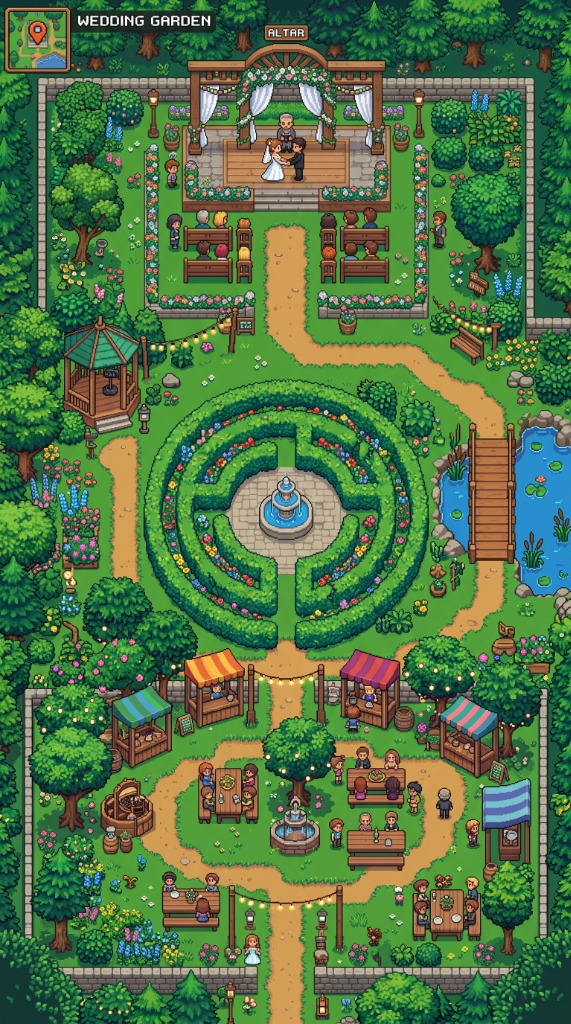
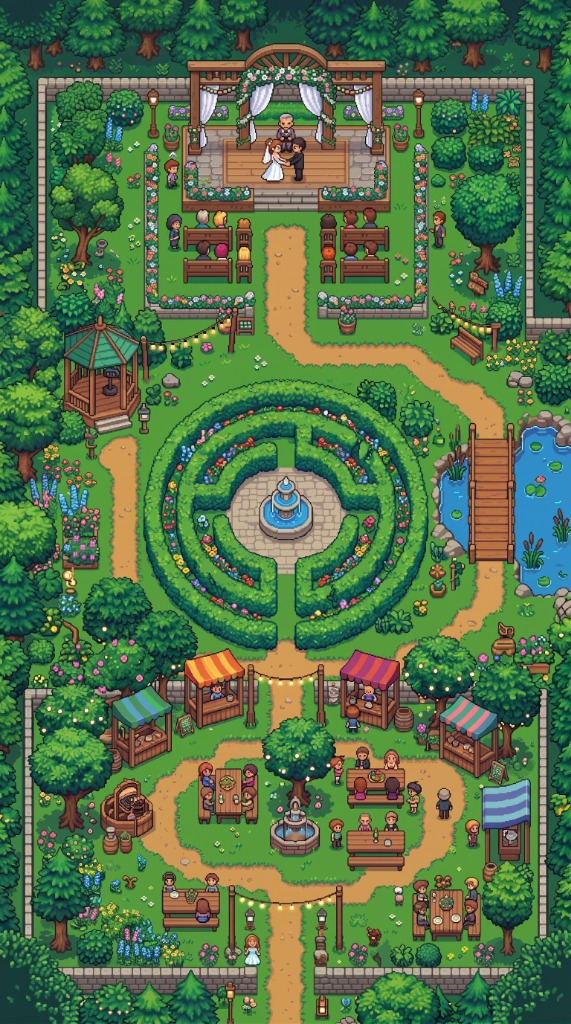
Restore NPC logic and update static background

diff --git a/index.html b/index.html
@@ -28,6 +28,20 @@
 
     <div id="errorDisplay" style="position: absolute; top: 0; left: 0; background: red; color: white; z-index: 9999; padding: 10px; font-family: monospace; font-size: 14px; display: none;"></div>
     <textarea id="editorOutput" style="position: absolute; top: 10px; right: 10px; width: 300px; height: 400px; z-index: 9999; display: none; font-family: monospace;" readonly></textarea>
+    
+    <!-- NPC Editor UI -->
+    <div id="npcEditorDiv" style="position: absolute; left: 10px; top: 10px; width: 220px; height: 80vh; background-color: rgba(0,0,0,0.8); color: white; overflow: hidden; display: flex; flex-direction: column; z-index: 9999; display: none; border-radius: 8px; border: 1px solid #c4a165;">
+        <div id="npcEditorHandle" style="padding: 10px; background-color: #c4a165; color: white; font-weight: bold; cursor: move; text-align: center; font-family: sans-serif;">
+            DRAG ME
+        </div>
+        <div style="padding: 10px; overflow-y: auto; flex-grow: 1;">
+            <h3 style="margin-top: 0;">NPC List</h3>
+            <p style="font-size: 11px; margin-bottom: 10px; line-height: 1.3;">Click NPC to select. Click map to place. Select placed NPC & click map to add path waypoint.<br><br><b>Right Click</b> on a placed NPC to delete.</p>
+            <button id="btnCopyNpcConfig" style="width: 100%; margin-bottom: 10px; padding: 8px; background: #c4a165; color: white; border: none; cursor: pointer; border-radius: 4px; font-weight: bold;">Copy NPC Config</button>
+            <div id="npcListContainer"></div>
+        </div>
+    </div>
+
     <script>
         window.onerror = function(message, source, lineno, colno, error) {
             const errDisplay = document.getElementById('errorDisplay');

diff --git a/recover.py b/recover.py
@@ -1,0 +1,36 @@
+import json
+import re
+
+log_path = r'C:\Users\Dhodi Presetia\.gemini\antigravity-ide\brain\fb612b37-e132-497a-b28a-ce111daa8e7c\.system_generated\logs\transcript_full.jsonl'
+lines_dict = {}
+
+with open(log_path, 'r', encoding='utf-8') as f:
+    text = f.read()
+
+blocks = text.split('File Path: `file:///d:/Program/Web/main.js`')
+if len(blocks) > 1:
+    for b in blocks[1:]:
+        sub_blocks = b.split('File Path: `')
+        main_js_content = sub_blocks[0]
+        
+        parts = re.split(r'\\r\\n|\\n|\r\n|\n', main_js_content)
+        for p in parts:
+            match = re.match(r'^(\d+):\s?(.*)', p) # Note \s? to handle empty lines like "30:"
+            if match:
+                line_num = int(match.group(1))
+                content = match.group(2)
+                content = content.replace('\\"', '"').replace('\\\\', '\\')
+                if line_num not in lines_dict:
+                    lines_dict[line_num] = content
+
+    max_line = max(lines_dict.keys()) if lines_dict else 0
+    print(f'Found {len(lines_dict)} unique lines. Max line: {max_line}')
+    
+    with open('main.js.restored', 'w', encoding='utf-8') as out:
+        for i in range(1, max_line + 1):
+            if i in lines_dict:
+                out.write(lines_dict[i] + '\n')
+            else:
+                out.write('// MISSING LINE ' + str(i) + '\n')
+else:
+    print('main.js view not found')
